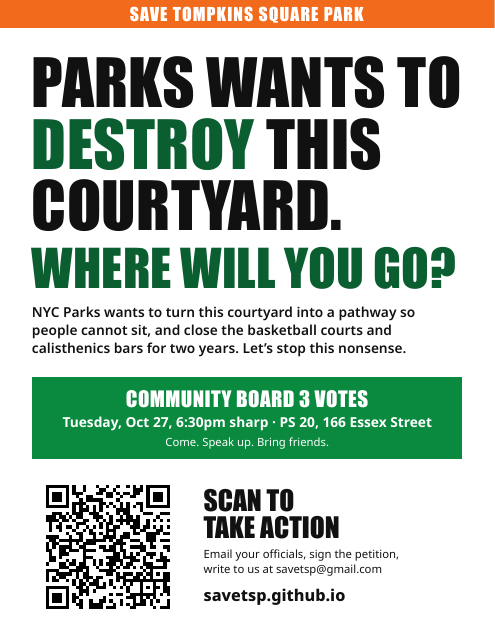
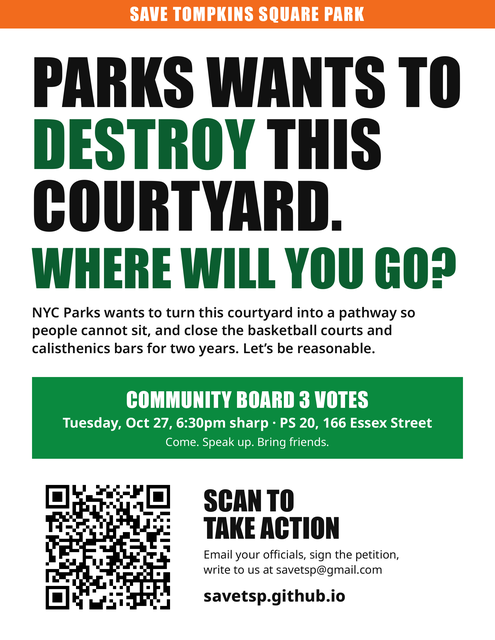
Softer subtitle and callout, Hoodline press, poster 10 says Let's be reasonable

diff --git a/index.html b/index.html
@@ -4,7 +4,7 @@
 <meta charset="utf-8">
 <meta name="viewport" content="width=device-width, initial-scale=1">
 <title>Save Tompkins Square Park</title>
-<meta name="description" content="Repair, don't demolish. Protect our bars, our courts, and our community. Parks wants to close the courts and the bars at Tompkins Square Park for two years, and CB3's Parks Committee said yes. The full CB3 votes October 27.">
+<meta name="description" content="Repair, don't demolish. Protect our bars, our courts, and our community. Parks wants to close the courts and the bars at Tompkins Square Park for two years, when a few fixes would do. The full CB3 votes on October 27.">
 <!-- Link previews (WhatsApp, iMessage, social media) -->
 <meta property="og:type" content="website">
 <meta property="og:url" content="https://savetsp.github.io/">
@@ -12,7 +12,7 @@
 <meta property="og:image:width" content="1200">
 <meta property="og:image:height" content="630">
 <meta property="og:title" content="Repair, don't demolish. Protect our bars, our courts, and our community.">
-<meta property="og:description" content="Parks wants to close the courts and the bars at Tompkins for two years, and CB3's Parks Committee said yes. The full CB3 votes October 27. Here's what you can do.">
+<meta property="og:description" content="Parks wants to close the courts and the bars at Tompkins for two years, when a few fixes would do. The full CB3 votes on October 27. Here's what you can do.">
 <meta name="twitter:card" content="summary_large_image">
 <link rel="stylesheet" href="style.css">
 </head>
@@ -24,7 +24,7 @@
   <div class="wrap">
     <h1>Repair, don't demolish.</h1>
     <p class="tagline">Protect our bars, our courts, and our community.</p>
-    <p>Parks wants to close us down for two years, and CB3's Parks Committee said yes. <span class="date">The full CB3 votes October 27.</span> Let's stop this nonsense.</p>
+    <p>Parks wants to close us down for two years, when a few fixes would do. <span class="date">The full CB3 votes on October 27.</span> Let's be reasonable.</p>
     <p class="covered"><a href="#press">As covered by Gothamist, WNYC and EV Grieve</a></p>
   </div>
 </section>
@@ -51,7 +51,7 @@
     <h2>What's happening</h2>
     <p>With US$6 million from New York State earmarked for the mini pool and another US$4 million from the city, NYC Parks has money to spend. So it wants to tear down the basketball courts, the calisthenics park and the shaded courtyard, and close them for two years.</p>
     <p>Nobody asked for this. On the contrary, the community has been consistent, loud and clear. Repair and improve. Do not demolish and replace what works.</p>
-    <p class="callout"><strong>On October 15, the CB3 Parks Committee fell for a presentation full of mischaracterizations and endorsed the worst of all options, which closes everything, for everyone, for two years.</strong> The full CB3 will vote on this recommendation on October 27, and we have to be there to be heard. Council member Harvey Epstein can also <a href="everyone.html">fulfill his promise to park users</a> and stop this nonsense.</p>
+    <p class="callout"><strong>On October 15, the CB3 Parks Committee heard a presentation full of mischaracterizations and leaned towards the worst of all options, which closes everything, for everyone, for two years.</strong> The full CB3 will vote on this recommendation on October 27, and we have to be there to be heard. Council member Harvey Epstein can also <a href="everyone.html">fulfill his promise to park users</a> and stop this nonsense.</p>
 
     <h2>What the community told Parks</h2>
     <p>This is not our spin. It is in Parks' own records.</p>
@@ -111,6 +111,7 @@
 
     <h2 id="press">In the news</h2>
     <ul class="press">
+      <li><span class="src">Hoodline</span><a href="https://hoodline.com/2026/10/east-village-parks-committee-backs-10m-tompkins-square-overhaul-gym-regulars-push-back/" target="_blank" rel="noopener">Tompkins Square Park Renovation Plan Divides East Village</a><span class="when">Oct 17, 2026</span></li>
       <li><span class="src">Gothamist</span><a href="https://gothamist.com/news/tompkins-square-park-is-getting-a-makeover-some-say-its-too-much" target="_blank" rel="noopener">Tompkins Square Park is getting a makeover. Some say it's too much.</a><span class="when">Oct 17, 2026</span></li>
       <li><span class="src">EV Grieve</span><a href="https://evgrieve.com/2026/10/parks-to-present-3-options-for-tompkins.html" target="_blank" rel="noopener">Parks to present 3 options for Tompkins Square recreation area</a><span class="when">Oct 14, 2026</span></li>
       <li><span class="src">EV Grieve</span><a href="https://evgrieve.com/2026/07/petition-to-preserve-tompkins-square.html" target="_blank" rel="noopener">Petition to preserve Tompkins Square Park fitness area tops 2,000 signatures</a><span class="when">Jul 27, 2026</span></li>
